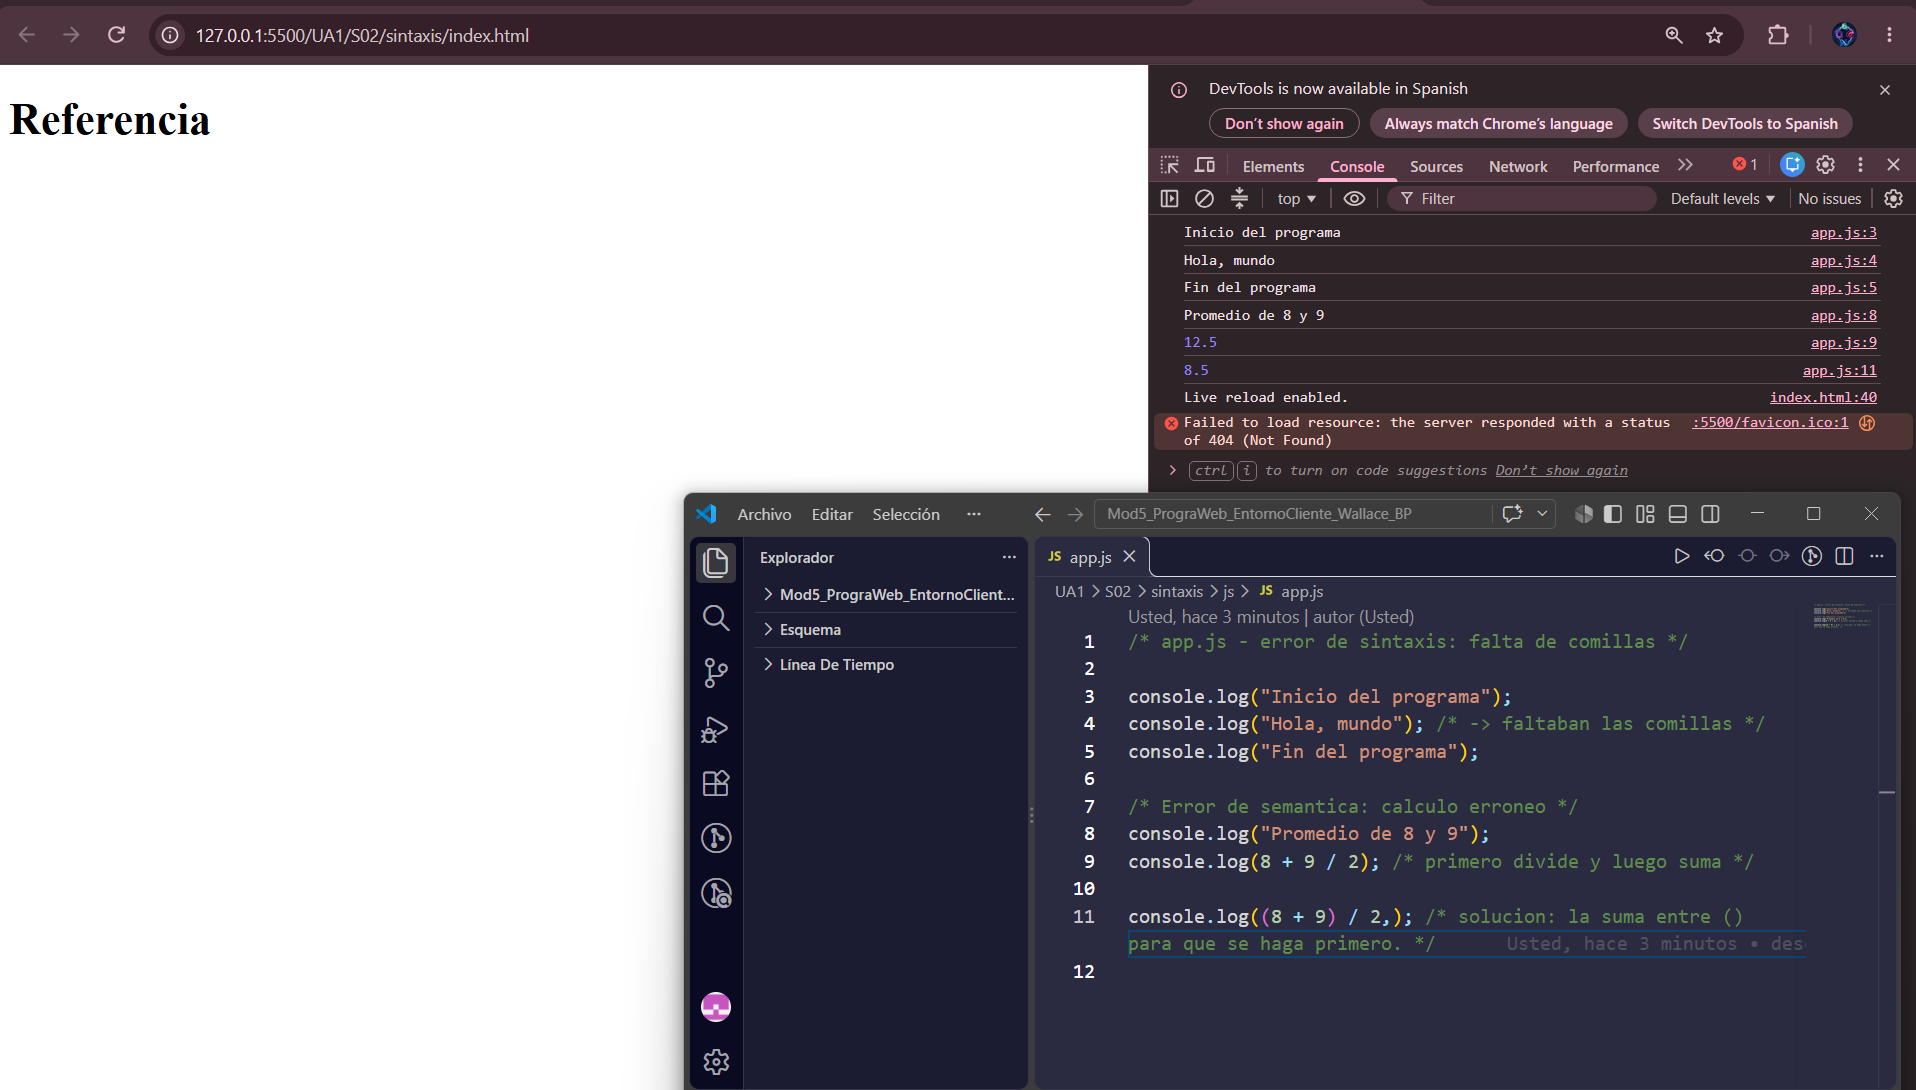
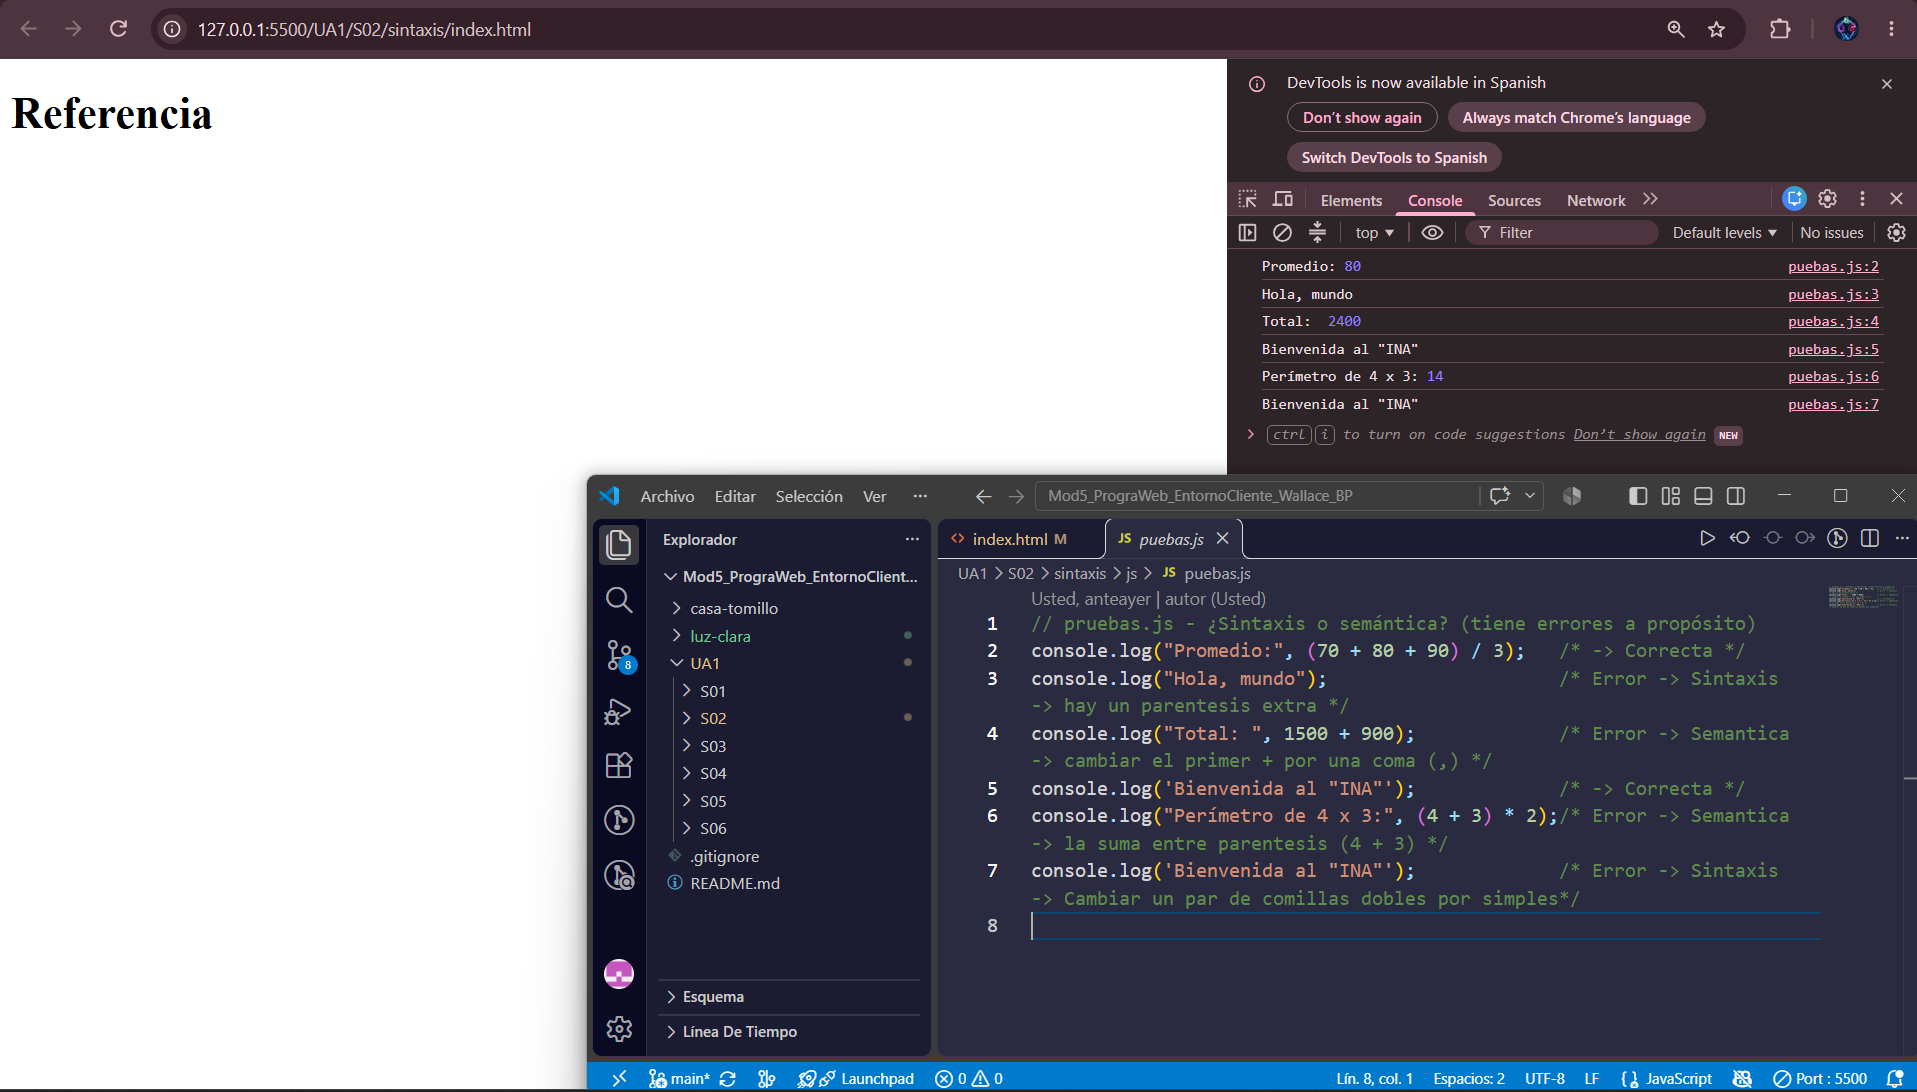
S02 lista.

Changed region(s): [[0.0, 0.0, 1.0, 1.0], [0.7698, 0.655, 0.9238, 0.6862], [0.0, 0.0936, 0.1232, 0.1248]]

diff --git a/luz-clara/js/errores.js b/luz-clara/js/errores.js
@@ -1,0 +1,12 @@
+// errores.js - try, catch y finally
+try {                                             // intenta ejecutar
+  console.log("Inicio");
+  const nombre = null;                            // como si se cancelara
+  console.log(nombre.toUpperCase());              // falla: null no tiene métodos
+  console.log("Esta línea no se muestra");
+} catch (error) {                                 // si algo falló, viene aquí
+  console.log("Se atrapó:", error.message);
+} finally {                                       // siempre se ejecuta
+  console.log("Fin del intento");
+}
+console.log("El programa sigue");                 // no se detuvo

diff --git a/luz-clara/js/switch.js b/luz-clara/js/switch.js
@@ -1,0 +1,12 @@
+// switch.js - Elegir entre varios casos
+const dia = "sábado";                           // día de la sesión
+switch (dia) {                                  // compara dia con cada case
+  case "sábado":
+    console.log("Tarifa de fin de semana");
+    break;                                      // sale del switch
+  case "domingo":
+    console.log("Estudio cerrado");
+    break;
+  default:                                      // ningún case coincidió
+    console.log("Tarifa normal");
+}

diff --git a/luz-clara/js/decision.js b/luz-clara/js/decision.js
@@ -1,0 +1,10 @@
+// decision.js - if, else if y else
+const horas = 2;                      // duración de la sesión
+if (horas <= 1) {                     // ¿una hora o menos?
+console.log("Sesión corta");
+} else if (horas <= 3) {              // si no: ¿tres horas o menos?
+console.log("Sesión media");
+} else {                              // en cualquier otro caso
+console.log("Sesión larga");
+}
+console.log("Fin de la decisión");    // se ejecuta siempre

diff --git a/luz-clara/js/depurar.js b/luz-clara/js/depurar.js
@@ -1,0 +1,6 @@
+// depurar.js - Tiene un error: encuéntrelo con un punto de interrupción
+const precio = 45000;                         // Retrato individual
+const descuento = 10;                         // por ciento
+const rebaja = precio * descuento;            // revise este valor
+const total = precio - rebaja;                // ponga aquí el punto
+console.log("Total:", total);                 // ¿tiene sentido?

diff --git a/luz-clara/js/ternario.js b/luz-clara/js/ternario.js
@@ -1,0 +1,5 @@
+// ternario.js - Operador ternario: condición ? si es true : si es false
+const fechas = 2;                                               // fechas libres
+const estado = fechas > 0 ? "Hay fechas" : "Sin fechas";
+console.log(estado);                                            // Hay fechas
+console.log(fechas === 1 ? "Queda 1" : `Quedan ${fechas}`);

diff --git a/luz-clara/nosotros.html b/luz-clara/nosotros.html
@@ -268,7 +268,11 @@
 
     <p class="pie-creditos"><small>&copy; 2026 · Estudio Luz Clara</small></p>
   </footer>
-
+  <script src="js/decision.js"></script>
+  <script src="js/ternario.js"></script>
+  <script src="js/switch.js"></script>
+  <script src="js/depurar.js"></script>
+  <script src="js/errores.js"></script>
 </body>
 
 </html>

diff --git a/UA1/S02/sintaxis/index.html b/UA1/S02/sintaxis/index.html
@@ -8,7 +8,7 @@
   <body>
     <h1>Referencia</h1>
 
-    <script src="js/app.js"></script>
+    <!-- <script src="js/app.js"></script> -->
     <script src="js/puebas.js"></script>
   </body>
 </html>
